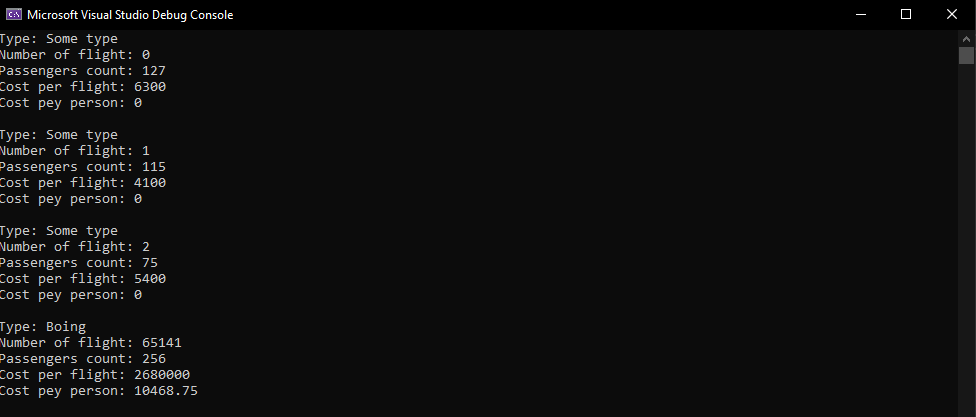
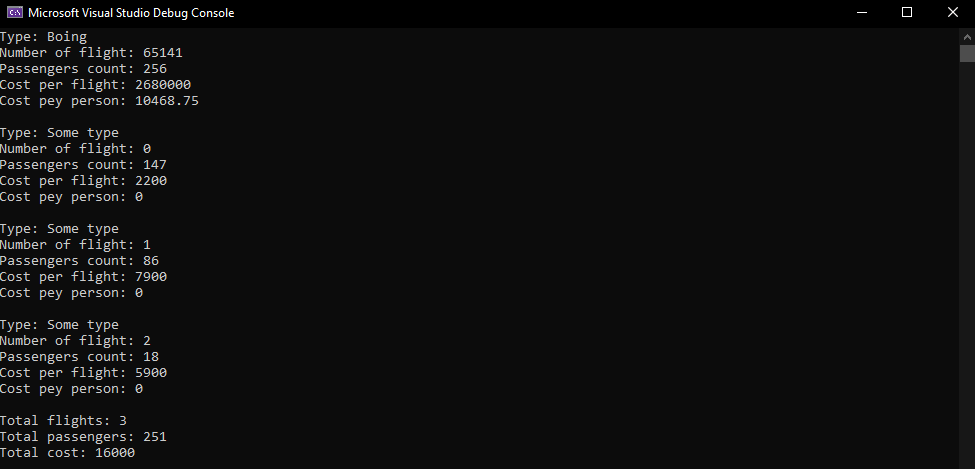
Lab2_ver2

Changed region(s): [[0.0, 0.0, 0.2462, 0.9976], [0.9846, 0.0624, 1.0, 0.1559], [0.9231, 0.0, 0.9846, 0.0312]]

diff --git a/Lab2_Basics_OOP/FlightHelper.cs b/Lab2_Basics_OOP/FlightHelper.cs
@@ -30,7 +30,25 @@ namespace Lab2_Basics_OOP
         public static void ToConsole(IEnumerable<Flight> flights)
         {
             foreach (Flight flight in flights)
+            {
                 ToConsole(flight);
+            }
+        }
+        public static void TotalToConsole(IEnumerable<Flight> flights)
+        {
+            var totalCost = 0d;
+            var totalPassengers = 0;
+            var totalFlights = 0;
+            foreach (Flight flight in flights)
+            {
+                totalCost += flight.GetZ();
+                totalPassengers += flight.GetK();
+                totalFlights++;
+            }
+
+            Console.WriteLine($"Total flights: {totalFlights}\n" +
+                $"Total passengers: {totalPassengers}\n" +
+                $"Total cost: {totalCost}");
         }
     }
 }

diff --git a/Lab2_Basics_OOP/Program.cs b/Lab2_Basics_OOP/Program.cs
@@ -6,12 +6,13 @@ namespace Lab2_Basics_OOP
     {
         static void Main(string[] args)
         {
-            Flight[] flights = FlightHelper.GetMocksFlights(3);
-            FlightHelper.ToConsole(flights);
-
             var flight1 = new Flight("Boing", 65141, 256, 2680000);
             flight1.AccountS();
             FlightHelper.ToConsole(flight1);
+
+            Flight[] flights = FlightHelper.GetMocksFlights(3);
+            FlightHelper.ToConsole(flights);
+            FlightHelper.TotalToConsole(flights);
         }
     }
 }
